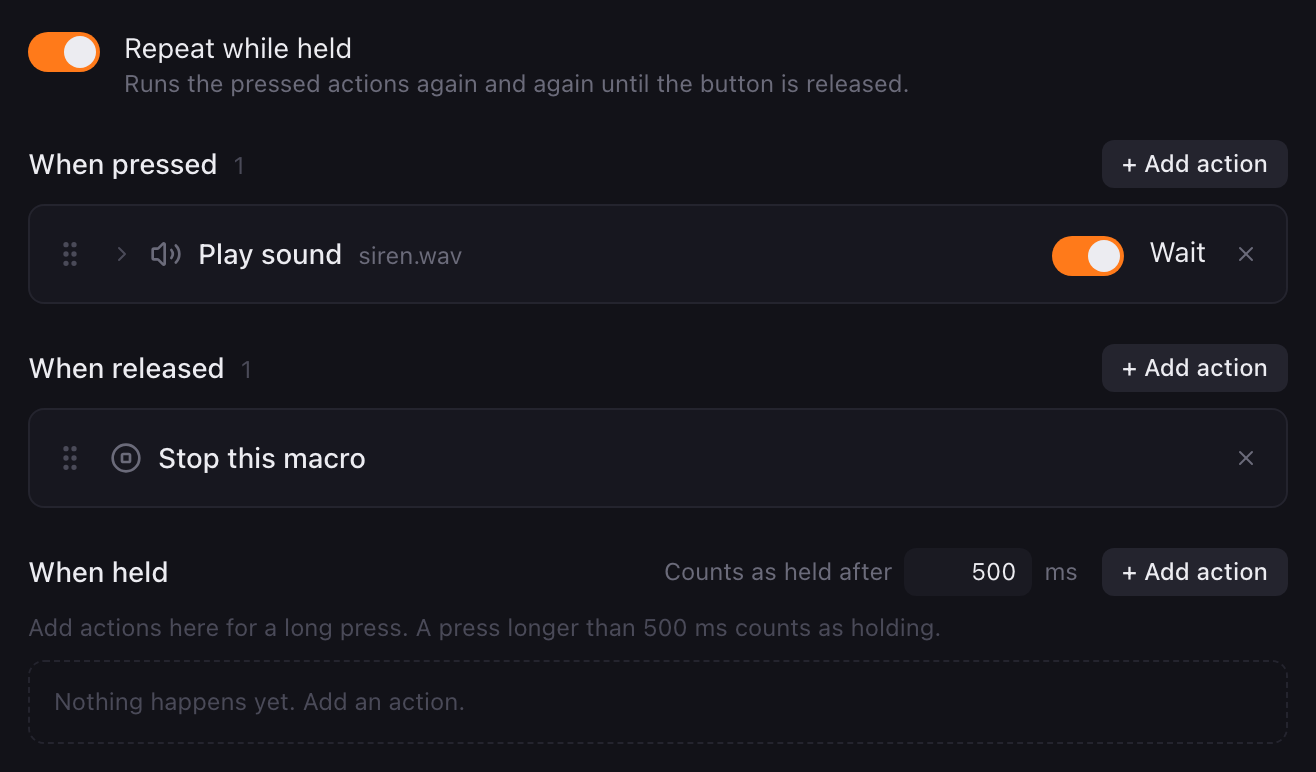
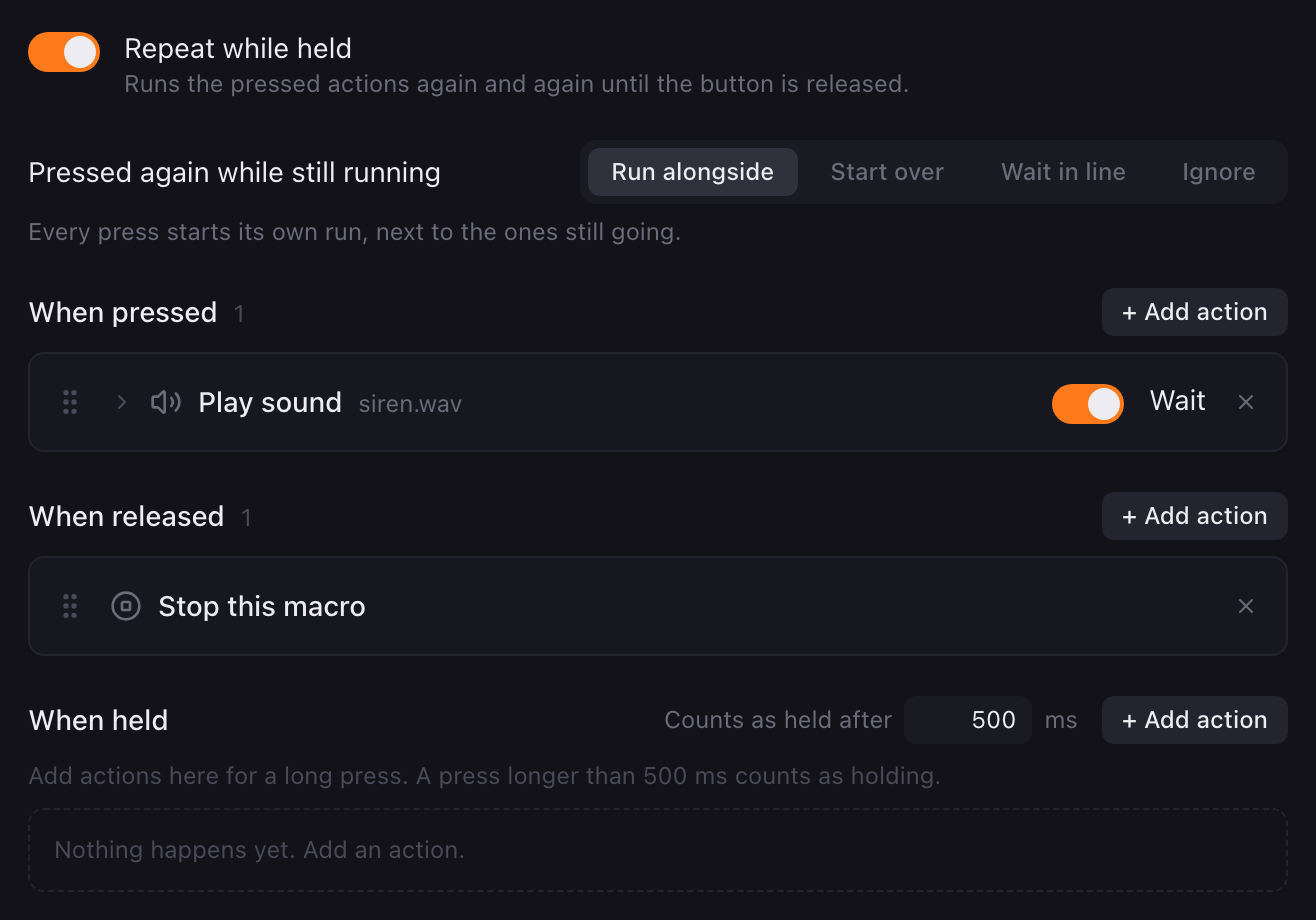
Document what a press does while a button is still running
Lunchpad 1.1.2 lets a button run alongside, start over, wait in line or
ignore a press that arrives while it is still running. The action lists
guide explains the four choices and how they are counted; the pages on
Stop this macro, Restart this macro, Run another button and Play sound
point to it.

The screenshots of the button's Actions tab are retaken with the new
control, a new one shows it set to wait in line, and the mock's buttons
carry the two new fields.

diff --git a/scripts/screenshots/mock/backend.ts b/scripts/screenshots/mock/backend.ts
@@ -72,7 +72,7 @@ if (scenario.focus) {
   const page = profile.pages[0];
   const base = page.buttons.find((b) => b.x === FOCUS_PAD.x && b.y === FOCUS_PAD.y);
   page.buttons = page.buttons.filter((b) => b !== base);
-  page.buttons.push({ ...(base ?? {}), down: [], up: [], hold: [], ...(base ? {} : { look: { type: "text", caption: "", size: 15, face: "sans", color: "#ffffff" }, color: { mode: "palette", index: 9 }, activeColor: null, loop: false, holdMs: 500, holdWait: true, stateLink: null }), ...scenario.focus, ...FOCUS_PAD } as Page["buttons"][number]);
+  page.buttons.push({ ...(base ?? {}), down: [], up: [], hold: [], ...(base ? {} : { look: { type: "text", caption: "", size: 15, face: "sans", color: "#ffffff" }, color: { mode: "palette", index: 9 }, activeColor: null, loop: false, holdMs: 500, holdWait: true, stateLink: null, description: "", runMode: "parallel", queueSize: 1 }), ...scenario.focus, ...FOCUS_PAD } as Page["buttons"][number]);
 }
 
 // The demo pages are drawn for a Launchpad; a keyboard model gets its own page.

diff --git a/scripts/screenshots/scenarios/app.ts b/scripts/screenshots/scenarios/app.ts
@@ -99,6 +99,27 @@ export const appShots: Shot[] = [
   },
 
   {
+    // What a press does while the button is still running: the choice above the lists.
+    name: "app/run-mode",
+    viewport: TALL,
+    margin: 14,
+    scenario: {
+      focus: {
+        look: { type: "text", caption: "Intro", size: 16, face: "sans", color: "#ffffff" },
+        color: { mode: "rgb", r: 96, g: 72, b: 255 },
+        down: [act({ type: "playSound", file: "C:\\Users\\Demo\\Sounds\\intro.mp3", volume: 1, start: 0, end: 1, outputDevice: null, volumeFromVelocity: false })],
+        runMode: "queue",
+        queueSize: 3,
+      },
+    },
+    run: async (page) => {
+      await openEditor(page);
+      const dialog = await openActionsTab(page);
+      return dialog.getByText("Pressed again while still running").locator("xpath=../..");
+    },
+  },
+
+  {
     name: "app/add-action-menu",
     viewport: { width: 1000, height: 900 },
     run: async (page) => {

diff --git a/scripts/screenshots/mock/fixtures.ts b/scripts/screenshots/mock/fixtures.ts
@@ -147,6 +147,8 @@ export function button(caption: string, color: PadColor, extra: Partial<Button> 
     holdWait: true,
     stateLink: null,
     description: "",
+    runMode: "parallel",
+    queueSize: 1,
     ...extra,
   };
 }
